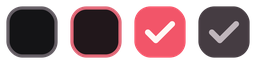
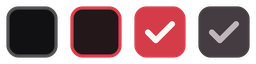
Unify survival controls and refine Lychee red checkbox states

diff --git a/docs/validation/2026-09-21-survival-layout.md b/docs/validation/2026-09-21-survival-layout.md
@@ -61,3 +61,12 @@ Retail12.1.0.69875 zhCN，灵止光—死亡之翼。Ticket `LYCHEE-20260921-014
 运行提交9019048加入原创SVG四态图集，5caee2c按用户反馈将显示尺寸从20缩到16（实际轮廓约12），整行点击不变。200运行文件SHA-256一致；素材256×64 RGBA原始像素64 KiB，全行共享，每个choice从1 Frame/16 regions改为1 Texture，12行减少12 Frame/180 regions。状态UV和透明度缓存，无新驱动。完整契约、四态禁用/复用回归、Lua语法、wowdoc与diff检查通过；50次打开不增加控件、保留-1.03 KiB；离线模块430.5 KiB、查询增长0.0、峰批3ms。纹理引擎总内存未量化，不按对象计数换算总节省。
 
 首轮Ticket `LYCHEE-20260921-020131-0085` 为21/23通过，合剂与选中态两项失败；WGC有同时鼠标操作且模拟选项发生变化，疑似干扰但不当作已确证根因；已ACK清理。check30-fast已加载但因用户尺寸修订未执行，直接换成check31。check31在断言同一回调中先恢复自有模拟基线，再执行点击检查。最终Ticket `LYCHEE-20260921-020529-0086` request=ldt-check31-20260921/revision=check31，Retail12.1.0.69875 zhCN 灵止光—死亡之翼，complete/succeeded，23/23通过。完整payload本机 `C:/Users/follen/AppData/Local/LycheeDev/automation/received/LYCHEE-20260921-020529-0086/content.json`。WGC `analyze/survival/ui-check31-3.png` 确认缩小标记、hover及禁用（后两者由探针临时注入，不代表实际角色增益）；选中图集在首轮截图中可见。100次计算1.4311ms，ACK确认清理，任务移除。英文客户端、不同DPI及真实硬件点击独立场景未覆盖。
+
+
+## 0.3.32 工具栏归组与荔枝红
+
+基线5caee2c，局部样式修订：复用1个底座Frame和3个Button，额外3组圆角共21区域、3条加减线及1分隔，共25个固定Texture；无新增Frame、驱动、事件或缓存。首次打开分配、关闭隐藏、后续复用；单次hover更新当前按钮，效果仍12行有界。图集尺寸与64 KiB原始像素不变，不声明总内存节省。
+
+计划实机覆盖：层数加减及0/35禁用、刷新保留手动模拟、四态、重置、失败unknown与恢复、关闭重开、两级返回。沿用完整契约检查关闭清理和50次复用，另核对实际缩放下显示。
+
+修改前wowdoc source list/check已核对；sourceId=wow-ui-source/product=retail/requestedRef=12.1.0/resolvedCommit=4e3cbb8c5609e4bfc332c0aebbfa4d79731fab59。Interface/AddOns/Blizzard_APIDocumentationGenerated/SimpleScriptRegionResizingAPIDocumentation.lua:135–149 定义SetPoint(point,relativeTo,relativePoint,offsetX,offsetY)；SimpleTextureBaseAPIDocumentation.lua:576–587 定义SetTexCoord(left,right,bottom,top)。接口仅用于本插件非受保护UI。

diff --git a/README.en.md b/README.en.md
@@ -10,7 +10,7 @@ Press <kbd>Alt</kbd> + <kbd>Space</kbd>. Type what you need.
 
 [简体中文](README.md) · [English](README.en.md)
 
-[![Version](https://img.shields.io/badge/version-0.3.31-d53c49?style=flat-square)](addon/Lychee/Lychee.toc)
+[![Version](https://img.shields.io/badge/version-0.3.32-d53c49?style=flat-square)](addon/Lychee/Lychee.toc)
 [![Lua](https://img.shields.io/badge/Lua-5.1-2c2d72?style=flat-square&logo=lua&logoColor=white)](addon/Lychee)
 [![Languages](https://img.shields.io/badge/languages-English%20%2F%20中文-526b5d?style=flat-square)](#clients)
 [![Clients](https://img.shields.io/badge/WoW-4%20clients-6d587c?style=flat-square)](#clients)
@@ -28,7 +28,7 @@ Press <kbd>Alt</kbd> + <kbd>Space</kbd>. Type what you need.
 
 </div>
 
-0.3.31: Reduce effect checkbox size while keeping the full row clickable.
+0.3.32: Group level and refresh controls; refine compact checkboxes with Lychee red selection.
 
 You remember a spell's name, but not which action bar it is on. You know which setting you want, but not which menu contains it. Lychee starts with **the name**: find it, then cast, use, switch, or open the relevant page.
 
@@ -235,6 +235,10 @@ Move the Chinese dedication to the acknowledgements footer, using its existing n
 ### 0.3.3
 
 A first-use bubble identifies the settings icon. Opening settings or choosing Got it dismisses it across characters on the account.
+
+### 0.3.32
+
+0.3.32: Group level and refresh controls; refine compact checkboxes with Lychee red selection.
 
 ### 0.3.31
 
